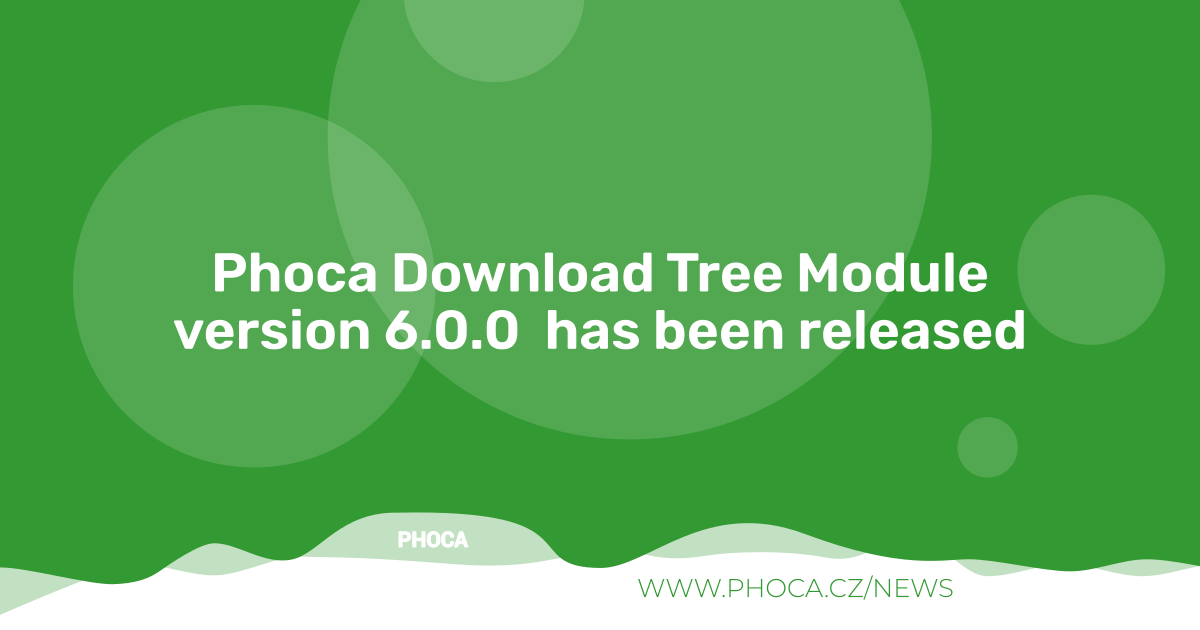
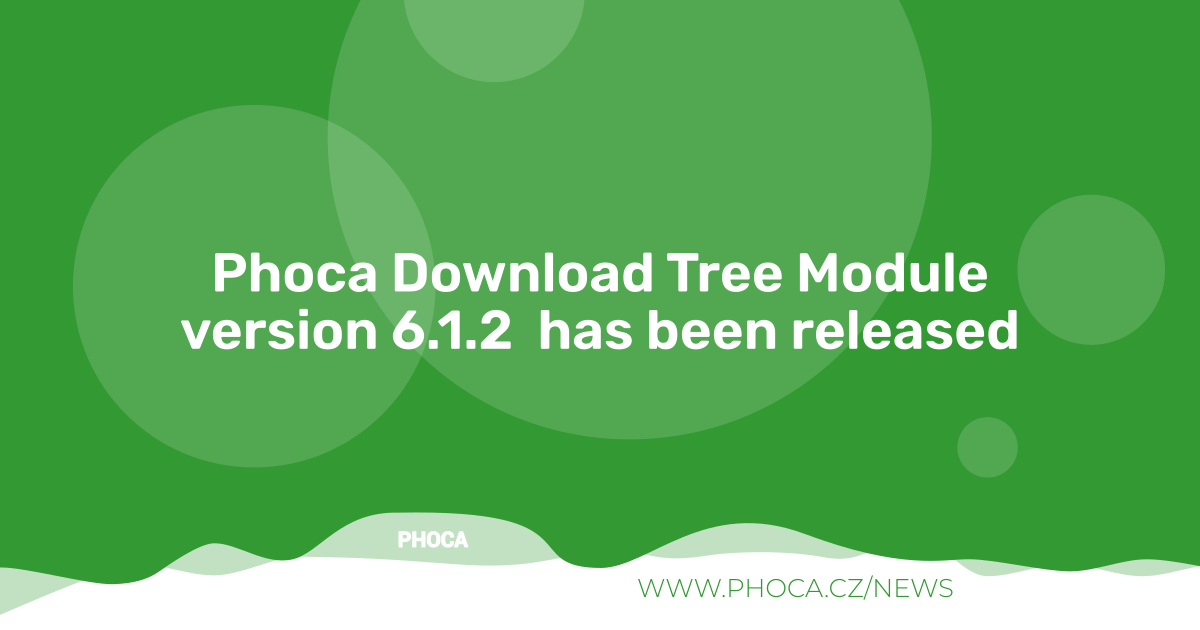
6.1.2

Changed region(s): [[0.1233, 0.4825, 0.8633, 0.573]]

diff --git a/README.MD b/README.MD
@@ -20,79 +20,68 @@ Our compliance with the principles of free and open-source software is establish
 
 *This repository is a shared community resource dedicated to the global open-source ecosystem.*
 
+### Community Feedback & Contributions
 
-## Project page
+We welcome your feedback and active involvement. You can join the development and follow the progress on public, independent GitHub pages at [https://github.com/PhocaCz](https://github.com/PhocaCz).
+Any feedback, bug reports, feature suggestions, or code improvements can be submitted transparently via **GitHub Issues** or **Pull Requests** within the respective repository.
 
-[Phoca Download Tree Module](https://www.phoca.cz/phocadownload-tree)
+### Accompanying External Resources
 
-[Phoca Download Info Page](https://www.phoca.cz/project/phocadownload-joomla-download)
+If you need additional information beyond this GitHub repository, further documentation, updates, and community channels are available on the following external websites:
 
+#### External Project Information
 
-
-## Documentation
-
-[Documentation](https://www.phoca.cz/documentation/category/57-phoca-download-tree-module)
-
-
-
-
-
-## Support
-
-[Phoca Forum](https://www.phoca.cz/forum)
-
-:bell: [Phoca Forum RSS](https://www.phoca.cz/forum/app.php/feed)
+- [Phoca Download Tree Module](https://www.phoca.cz/phocadownload-tree)
+- [Phoca Download Info Page](https://www.phoca.cz/project/phocadownload-joomla-download)
+- [Project is listed on Joomla Extensions Directory](https://extensions.joomla.org/)
+- [Project is listed on Phoca download directory](https://www.phoca.cz/download)
 
 
+#### External Documentation
 
-## News
-
-[Phoca News](https://www.phoca.cz/news)
-
-:bell: [Phoca News RSS](https://www.phoca.cz/news?format=feed&type=rss)
-
-:bell: [Phoca Latest Releases RSS](https://www.phoca.cz/download/feed/111?format=feed&type=rss)
+- [Documentation](https://www.phoca.cz/documentation/category/57-phoca-download-tree-module)
 
 
+#### External Community Support
 
-## Demo
+- [Phoca Forum](https://www.phoca.cz/forum)
+- [Joomla Forum](https://forum.joomla.org/)
+- [Joomlaportal.cz Forum - Czech](https://www.joomlaportal.cz/forum)
+- [Joomla.de Supportforum - German](https://forum.joomla.de/)
+- :bell: [Phoca Forum RSS](https://www.phoca.cz/forum/app.php/feed)
 
-[Demo](https://www.phoca.cz/download)
+
+#### External News & Feeds
+
+- [Phoca News](https://www.phoca.cz/news)
+- [Joomlaportal.cz News](https://www.joomlaportal.cz/novinky)
+- :bell: [Phoca News RSS](https://www.phoca.cz/news?format=feed&type=rss)
+- :bell: [Phoca Latest Releases RSS](https://www.phoca.cz/download/feed/111?format=feed&type=rss)
 
 
+#### Demo
 
-## Version (Joomla! 3.x)
+- [Demo](https://www.phoca.cz/download)
 
+### Version (Joomla! 3.x - no longer supported)
 3.2.1
-
-## Version (Joomla! 4.x)
-
+### Version (Joomla! 4.x - no longer supported)
 4.0.2
+### Version (Joomla! 5.x - no longer supported)
+6.1.2
+### Version (Joomla! 6.x)
+6.1.2
 
-## Version (Joomla! 5.x)
-
-6.0.0
-
-
-
-## License
+### License
 
 GNU/GPL
 
-
-
 This project is open source project - feel free to contribute! Thank you.
 
-
-
-## Social Media
+### Social Media
 
 - [Phoca on Facebook](https://www.facebook.com/Phoca.cz)
-
 - [Phoca on X (Twitter)](https://twitter.com/PhocaCz)
-
 - [Phoca on YouTube](https://www.youtube.com/user/phocavideos)
-
 - [Phoca on GitHub](https://github.com/PhocaCz)
-
 - [Phoca on Reddit](https://www.reddit.com/user/PhocaCz)

diff --git a/FOSS.md b/FOSS.md
@@ -1,0 +1,13 @@
+Free and Open Source Software (FOSS) Declaration
+
+This project is developed, distributed, and maintained strictly as **Free and Open Source Software (FOSS)**. It is provided entirely outside the course of any commercial activity as an independent public resource.
+
+Our compliance with the principles of free and open-source software is established by the following structural and operational guidelines:
+
+* **Strictly Non-Commercial & Public Good:** This software is provided 100% free of charge. No commercial entities control or fund this repository, and there are no commercial monetization models, paid subscriptions, or premium paywalls associated with this codebase.
+* **Independent Volunteer Contributions:** The development, maintenance, and testing of this extension are driven entirely by independent, voluntary contributions from the global community.
+* **No Commercial Technical Support:** Technical support is not provided as a paid commercial service by the maintainers of this repository. Community assistance is available on a voluntary, non-binding basis via public forums.
+* **No Proprietary Lock-in:** The software is licensed under the copyleft GNU General Public License (GPL). You have absolute freedom to run, study, share, modify, and redistribute the code.
+* **Decentralized Infrastructure:** This codebase is hosted in a public, transparent repository on GitHub to foster open collaborative development and public peer review, ensuring safety and quality through community vigilance.
+
+*This repository is a shared community resource dedicated to the global open-source ecosystem.*
